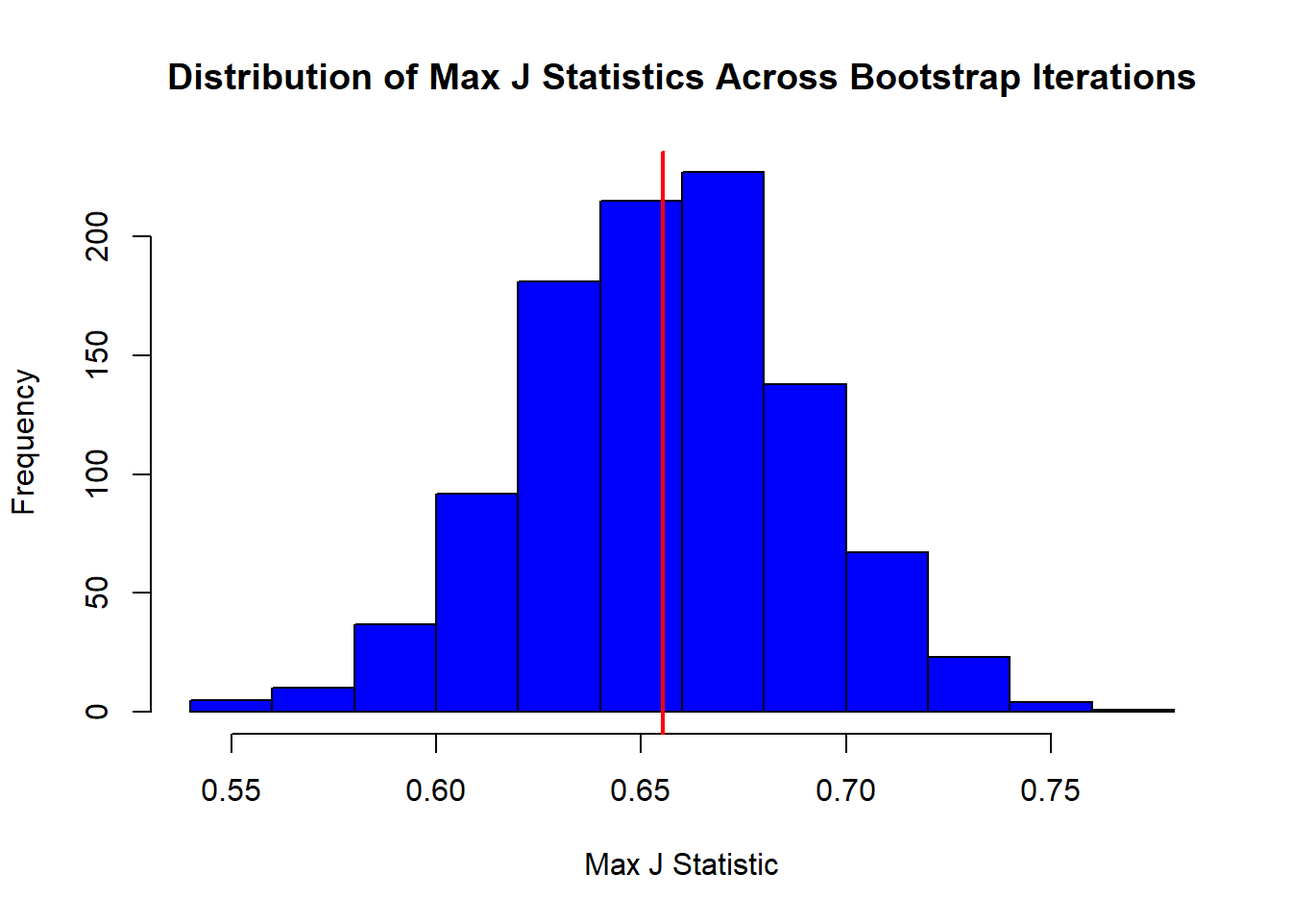
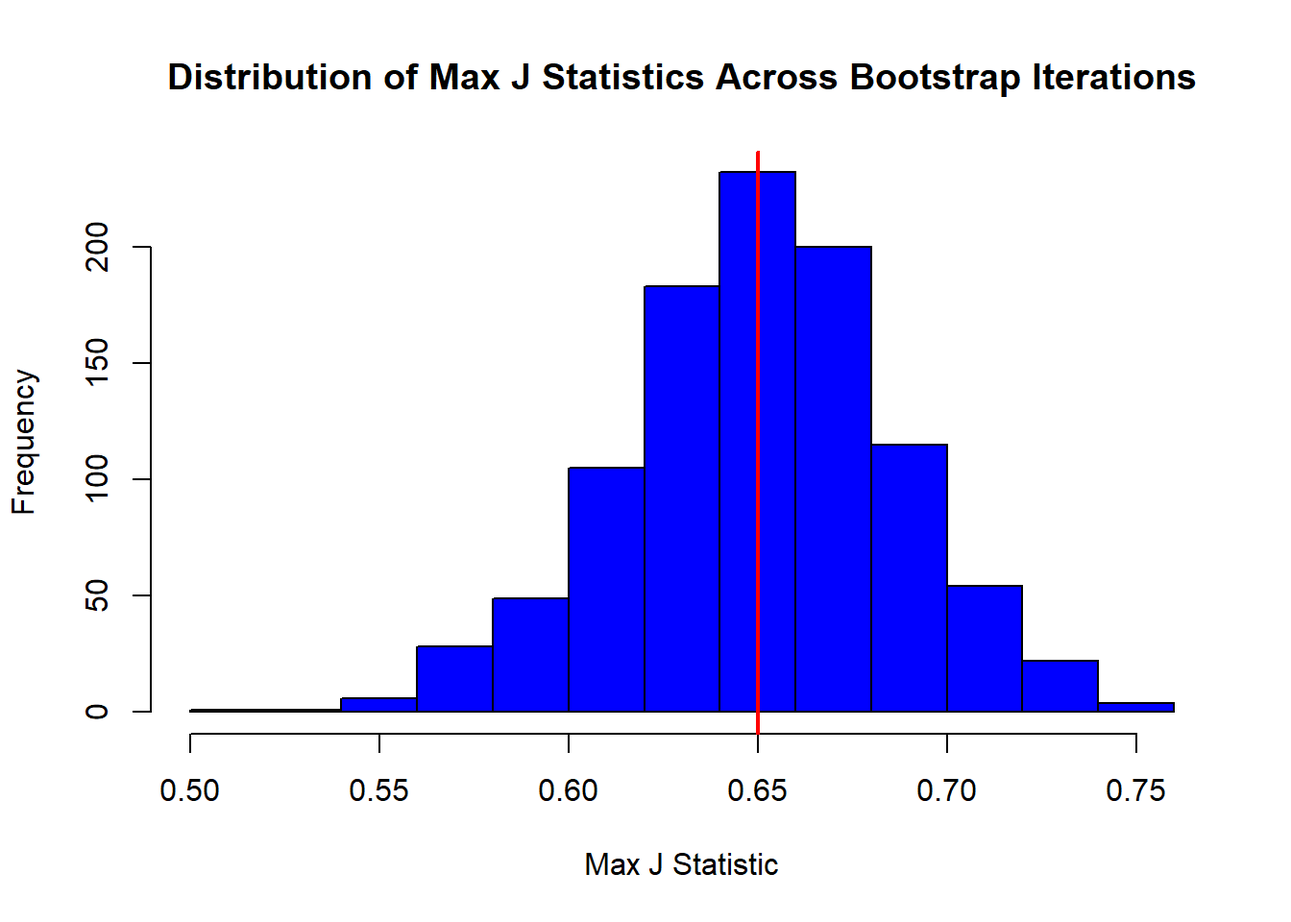
xgb2

diff --git a/docs/XGB_2.html b/docs/XGB_2.html
@@ -655,22 +655,22 @@ method</p>
 <div id="validating" class="section level3">
 <h3>Validating</h3>
 <div class="sourceCode" id="cb9"><pre class="sourceCode r"><code class="sourceCode r"><span id="cb9-1"><a href="#cb9-1" tabindex="-1"></a>grid <span class="ot">&lt;-</span> <span class="fu">expand.grid</span>(</span>
-<span id="cb9-2"><a href="#cb9-2" tabindex="-1"></a>  <span class="at">eta =</span> <span class="fu">seq</span>(<span class="fl">0.07</span>, <span class="fl">0.10</span>, <span class="at">by =</span> <span class="fl">0.01</span>), </span>
-<span id="cb9-3"><a href="#cb9-3" tabindex="-1"></a>  <span class="at">max_depth =</span> <span class="fu">seq</span>(<span class="dv">1</span>, <span class="dv">10</span>, <span class="at">by =</span> <span class="dv">9</span>),  </span>
-<span id="cb9-4"><a href="#cb9-4" tabindex="-1"></a>  <span class="at">min_child_weight =</span> <span class="fu">seq</span>(<span class="dv">1</span>, <span class="dv">19</span>, <span class="at">by =</span> <span class="dv">4</span>),  </span>
-<span id="cb9-5"><a href="#cb9-5" tabindex="-1"></a>  <span class="at">subsample =</span> <span class="fu">seq</span>(<span class="fl">0.6</span>, <span class="fl">0.8</span>, <span class="at">by =</span> <span class="fl">0.1</span>), </span>
-<span id="cb9-6"><a href="#cb9-6" tabindex="-1"></a>  <span class="at">colsample_bytree =</span> <span class="fu">seq</span>(<span class="fl">0.8</span>, <span class="dv">1</span>, <span class="at">by =</span> <span class="fl">0.1</span>), </span>
-<span id="cb9-7"><a href="#cb9-7" tabindex="-1"></a>  <span class="at">lambda =</span> <span class="fu">seq</span>(<span class="dv">0</span>, <span class="dv">12</span>, <span class="at">by =</span> <span class="dv">4</span>), </span>
-<span id="cb9-8"><a href="#cb9-8" tabindex="-1"></a>  <span class="at">alpha =</span> <span class="fu">seq</span>(<span class="dv">0</span>, <span class="dv">4</span>, <span class="at">by =</span> <span class="dv">2</span>),  </span>
-<span id="cb9-9"><a href="#cb9-9" tabindex="-1"></a>  <span class="at">gamma =</span> <span class="fu">seq</span>(<span class="dv">0</span>, <span class="dv">2</span>, <span class="at">by =</span> <span class="dv">2</span>),  </span>
-<span id="cb9-10"><a href="#cb9-10" tabindex="-1"></a>  <span class="at">nrounds =</span> <span class="fu">c</span>(<span class="dv">150</span>, <span class="dv">200</span>, <span class="dv">300</span>)  </span>
+<span id="cb9-2"><a href="#cb9-2" tabindex="-1"></a>  <span class="at">eta =</span> <span class="fu">seq</span>(<span class="fl">0.1</span>, <span class="fl">0.10</span>, <span class="at">by =</span> <span class="fl">0.0</span>), </span>
+<span id="cb9-3"><a href="#cb9-3" tabindex="-1"></a>  <span class="at">max_depth =</span> <span class="fu">seq</span>(<span class="dv">10</span>, <span class="dv">16</span>, <span class="at">by =</span> <span class="dv">3</span>),  </span>
+<span id="cb9-4"><a href="#cb9-4" tabindex="-1"></a>  <span class="at">min_child_weight =</span> <span class="fu">seq</span>(<span class="dv">1</span>, <span class="dv">1</span>, <span class="at">by =</span> <span class="dv">0</span>),  </span>
+<span id="cb9-5"><a href="#cb9-5" tabindex="-1"></a>  <span class="at">subsample =</span> <span class="fu">seq</span>(<span class="fl">0.7</span>, <span class="fl">0.9</span>, <span class="at">by =</span> <span class="fl">0.1</span>), </span>
+<span id="cb9-6"><a href="#cb9-6" tabindex="-1"></a>  <span class="at">colsample_bytree =</span> <span class="fu">seq</span>(<span class="dv">1</span>, <span class="dv">1</span>, <span class="at">by =</span> <span class="dv">0</span>), </span>
+<span id="cb9-7"><a href="#cb9-7" tabindex="-1"></a>  <span class="at">lambda =</span> <span class="fu">seq</span>(<span class="dv">0</span>, <span class="dv">4</span>, <span class="at">by =</span> <span class="dv">1</span>), </span>
+<span id="cb9-8"><a href="#cb9-8" tabindex="-1"></a>  <span class="at">alpha =</span> <span class="fu">seq</span>(<span class="dv">0</span>, <span class="dv">4</span>, <span class="at">by =</span> <span class="dv">1</span>),  </span>
+<span id="cb9-9"><a href="#cb9-9" tabindex="-1"></a>  <span class="at">gamma =</span> <span class="fu">seq</span>(<span class="dv">0</span>, <span class="dv">2</span>, <span class="at">by =</span> <span class="dv">1</span>),  </span>
+<span id="cb9-10"><a href="#cb9-10" tabindex="-1"></a>  <span class="at">nrounds =</span> <span class="fu">c</span>(<span class="dv">100</span>, <span class="dv">150</span>, <span class="dv">200</span>)  </span>
 <span id="cb9-11"><a href="#cb9-11" tabindex="-1"></a>)</span></code></pre></div>
 <div class="sourceCode" id="cb10"><pre class="sourceCode r"><code class="sourceCode r"><span id="cb10-1"><a href="#cb10-1" tabindex="-1"></a>conf_lev <span class="ot">&lt;-</span> .<span class="dv">95</span></span>
 <span id="cb10-2"><a href="#cb10-2" tabindex="-1"></a>num_max <span class="ot">&lt;-</span> <span class="dv">5</span> <span class="co"># Define number around the maximum</span></span>
 <span id="cb10-3"><a href="#cb10-3" tabindex="-1"></a>n <span class="ot">&lt;-</span> <span class="fu">log</span>(<span class="dv">1</span><span class="sc">-</span>conf_lev)<span class="sc">/</span><span class="fu">log</span>(<span class="dv">1</span><span class="sc">-</span>num_max<span class="sc">/</span><span class="fu">nrow</span>(grid))</span>
 <span id="cb10-4"><a href="#cb10-4" tabindex="-1"></a>ind <span class="ot">&lt;-</span> <span class="fu">sample</span>(<span class="fu">nrow</span>(grid), <span class="fu">nrow</span>(grid)<span class="sc">*</span>(n<span class="sc">/</span><span class="fu">nrow</span>(grid)), <span class="at">replace =</span> <span class="cn">FALSE</span>)</span>
 <span id="cb10-5"><a href="#cb10-5" tabindex="-1"></a>rgrid <span class="ot">&lt;-</span> grid[ind, ]</span></code></pre></div>
-<div class="sourceCode" id="cb11"><pre class="sourceCode r"><code class="sourceCode r"><span id="cb11-1"><a href="#cb11-1" tabindex="-1"></a>v <span class="ot">&lt;-</span> <span class="dv">200</span></span>
+<div class="sourceCode" id="cb11"><pre class="sourceCode r"><code class="sourceCode r"><span id="cb11-1"><a href="#cb11-1" tabindex="-1"></a>v <span class="ot">&lt;-</span> <span class="dv">400</span></span>
 <span id="cb11-2"><a href="#cb11-2" tabindex="-1"></a></span>
 <span id="cb11-3"><a href="#cb11-3" tabindex="-1"></a><span class="co"># Call the modified run_xgb function</span></span>
 <span id="cb11-4"><a href="#cb11-4" tabindex="-1"></a>vr <span class="ot">&lt;-</span> <span class="fu">run_xgb</span>(xs, y, rgrid, v)</span>
@@ -679,20 +679,20 @@ method</p>
 <pre><code>## # A tibble: 6 × 10
 ##     eta max_depth min_child_weight subsample colsample_bytree lambda alpha gamma
 ##   &lt;dbl&gt;     &lt;dbl&gt;            &lt;dbl&gt;     &lt;dbl&gt;            &lt;dbl&gt;  &lt;dbl&gt; &lt;dbl&gt; &lt;dbl&gt;
-## 1  0.07        10                5       0.6              1        8     2     0
-## 2  0.1         10               13       0.7              1        4     4     2
-## 3  0.08        10                5       0.7              1       12     2     0
-## 4  0.08         1                5       0.7              0.8      8     2     2
-## 5  0.08        10               17       0.7              1        0     2     0
-## 6  0.09        10               13       0.8              0.9      4     0     0
+## 1   0.1        16                1       0.7                1      1     0     2
+## 2   0.1        13                1       0.8                1      4     3     1
+## 3   0.1        16                1       0.7                1      0     1     0
+## 4   0.1        10                1       0.8                1      4     4     2
+## 5   0.1        16                1       0.9                1      2     4     1
+## 6   0.1        13                1       0.9                1      3     3     1
 ##   nrounds AUC_Mean
 ##     &lt;dbl&gt;    &lt;dbl&gt;
-## 1     200    0.877
-## 2     200    0.862
-## 3     150    0.877
-## 4     150    0.861
-## 5     300    0.866
-## 6     200    0.875</code></pre>
+## 1     200    0.882
+## 2     150    0.881
+## 3     150    0.881
+## 4     100    0.870
+## 5     100    0.878
+## 6     150    0.880</code></pre>
 </div>
 <div id="testing" class="section level3">
 <h3>Testing</h3>
@@ -708,20 +708,20 @@ method</p>
 <pre><code>## # A tibble: 6 × 11
 ##     eta max_depth min_child_weight subsample colsample_bytree lambda alpha gamma
 ##   &lt;dbl&gt;     &lt;dbl&gt;            &lt;dbl&gt;     &lt;dbl&gt;            &lt;dbl&gt;  &lt;dbl&gt; &lt;dbl&gt; &lt;dbl&gt;
-## 1  0.09        10                1       0.7              1       12     0     0
-## 2  0.07        10                1       0.8              1        4     2     0
-## 3  0.08        10                1       0.8              0.8     12     0     0
-## 4  0.07        10                1       0.8              1       12     0     0
-## 5  0.09        10                1       0.8              0.9      4     2     0
-## 6  0.07        10                1       0.7              0.8      8     2     0
+## 1   0.1        16                1       0.7                1      3     2     0
+## 2   0.1        16                1       0.8                1      3     1     0
+## 3   0.1        13                1       0.8                1      3     1     0
+## 4   0.1        10                1       0.8                1      4     0     1
+## 5   0.1        13                1       0.7                1      1     2     1
+## 6   0.1        16                1       0.7                1      3     2     0
 ##   nrounds AUC_Mean mean_auc
 ##     &lt;dbl&gt;    &lt;dbl&gt;    &lt;dbl&gt;
-## 1     150    0.888    0.884
-## 2     300    0.887    0.883
-## 3     200    0.886    0.884
-## 4     150    0.886    0.884
-## 5     150    0.886    0.884
-## 6     200    0.886    0.883</code></pre>
+## 1     200    0.886    0.884
+## 2     150    0.885    0.883
+## 3     150    0.885    0.883
+## 4     200    0.885    0.883
+## 5     200    0.885    0.883
+## 6     150    0.885    0.884</code></pre>
 </div>
 </div>
 </div>
@@ -735,18 +735,18 @@ method</p>
 <pre><code>## # A tibble: 1 × 11
 ##     eta max_depth min_child_weight subsample colsample_bytree lambda alpha gamma
 ##   &lt;dbl&gt;     &lt;dbl&gt;            &lt;dbl&gt;     &lt;dbl&gt;            &lt;dbl&gt;  &lt;dbl&gt; &lt;dbl&gt; &lt;dbl&gt;
-## 1  0.09        10                1       0.7              0.9     12     0     0
+## 1   0.1        10                1       0.7                1      4     1     0
 ##   nrounds AUC_Mean mean_auc
 ##     &lt;dbl&gt;    &lt;dbl&gt;    &lt;dbl&gt;
-## 1     150    0.884    0.886</code></pre>
-<div class="sourceCode" id="cb18"><pre class="sourceCode r"><code class="sourceCode r"><span id="cb18-1"><a href="#cb18-1" tabindex="-1"></a>r <span class="ot">&lt;-</span> <span class="dv">1000</span></span>
+## 1     150    0.883    0.884</code></pre>
+<div class="sourceCode" id="cb18"><pre class="sourceCode r"><code class="sourceCode r"><span id="cb18-1"><a href="#cb18-1" tabindex="-1"></a>r <span class="ot">&lt;-</span> <span class="dv">1500</span></span>
 <span id="cb18-2"><a href="#cb18-2" tabindex="-1"></a>auc <span class="ot">&lt;-</span> <span class="fu">test_auc</span>(xs, y, best_hp, r)</span>
 <span id="cb18-3"><a href="#cb18-3" tabindex="-1"></a></span>
 <span id="cb18-4"><a href="#cb18-4" tabindex="-1"></a>mauc <span class="ot">&lt;-</span> <span class="fu">mean</span>(auc)</span>
 <span id="cb18-5"><a href="#cb18-5" tabindex="-1"></a>mauc</span></code></pre></div>
-<pre><code>## [1] 0.8836899</code></pre>
+<pre><code>## [1] 0.8823718</code></pre>
 <div class="sourceCode" id="cb20"><pre class="sourceCode r"><code class="sourceCode r"><span id="cb20-1"><a href="#cb20-1" tabindex="-1"></a><span class="fu">sd</span>(auc)</span></code></pre></div>
-<pre><code>## [1] 0.01684275</code></pre>
+<pre><code>## [1] 0.01657016</code></pre>
 <p>As we can see our results are much better even with a small grid</p>
 <div class="sourceCode" id="cb22"><pre class="sourceCode r"><code class="sourceCode r"><span id="cb22-1"><a href="#cb22-1" tabindex="-1"></a><span class="fu">plot</span>(auc, <span class="at">col=</span><span class="st">&quot;red&quot;</span>)</span>
 <span id="cb22-2"><a href="#cb22-2" tabindex="-1"></a><span class="fu">abline</span>(<span class="at">a =</span> <span class="fu">mean</span>(auc), <span class="at">b =</span> <span class="dv">0</span>, <span class="at">col =</span> <span class="st">&quot;blue&quot;</span>, <span class="at">lwd =</span> <span class="dv">2</span>)</span>
@@ -813,7 +813,7 @@ metric if you want</p>
 <span id="cb23-53"><a href="#cb23-53" tabindex="-1"></a><span class="co"># Calculate and print the average of the best thresholds</span></span>
 <span id="cb23-54"><a href="#cb23-54" tabindex="-1"></a>avg_best_threshold <span class="ot">&lt;-</span> <span class="fu">mean</span>(best_thresholds)</span>
 <span id="cb23-55"><a href="#cb23-55" tabindex="-1"></a><span class="fu">cat</span>(<span class="st">&quot;Average Best Threshold:&quot;</span>, avg_best_threshold, <span class="st">&quot;</span><span class="sc">\n</span><span class="st">&quot;</span>)</span></code></pre></div>
-<pre><code>## Average Best Threshold: 0.402199</code></pre>
+<pre><code>## Average Best Threshold: 0.4043697</code></pre>
 <div class="sourceCode" id="cb25"><pre class="sourceCode r"><code class="sourceCode r"><span id="cb25-1"><a href="#cb25-1" tabindex="-1"></a><span class="co"># Plot the distribution of max J statistics for each iteration</span></span>
 <span id="cb25-2"><a href="#cb25-2" tabindex="-1"></a><span class="fu">hist</span>(j_stats, <span class="at">col =</span> <span class="st">&quot;blue&quot;</span>, <span class="at">xlab =</span> <span class="st">&quot;Max J Statistic&quot;</span>, <span class="at">ylab =</span> <span class="st">&quot;Frequency&quot;</span>,</span>
 <span id="cb25-3"><a href="#cb25-3" tabindex="-1"></a>     <span class="at">main =</span> <span class="st">&quot;Distribution of Max J Statistics Across Bootstrap Iterations&quot;</span>)</span>
@@ -822,95 +822,67 @@ metric if you want</p>
 </div>
 <div id="confusion-table-and-roc" class="section level1">
 <h1>Confusion table and ROC</h1>
-<p>For now this is one run and unreliable but we can loop it and do
-confidence intervals swap this confusion table around</p>
-<div class="sourceCode" id="cb26"><pre class="sourceCode r"><code class="sourceCode r"><span id="cb26-1"><a href="#cb26-1" tabindex="-1"></a>    ind <span class="ot">&lt;-</span> <span class="fu">sample</span>(<span class="fu">nrow</span>(xs), <span class="at">size =</span> <span class="fu">nrow</span>(xs), <span class="at">replace =</span> <span class="cn">TRUE</span>)</span>
-<span id="cb26-2"><a href="#cb26-2" tabindex="-1"></a>    train_xs <span class="ot">&lt;-</span> xs[ind, ]</span>
-<span id="cb26-3"><a href="#cb26-3" tabindex="-1"></a>    test_xs <span class="ot">&lt;-</span> xs[<span class="sc">-</span>ind, ]</span>
-<span id="cb26-4"><a href="#cb26-4" tabindex="-1"></a>    train_y <span class="ot">&lt;-</span> y[ind]</span>
-<span id="cb26-5"><a href="#cb26-5" tabindex="-1"></a>    test_y <span class="ot">&lt;-</span> y[<span class="sc">-</span>ind]</span>
-<span id="cb26-6"><a href="#cb26-6" tabindex="-1"></a>    dtrain <span class="ot">&lt;-</span> <span class="fu">xgb.DMatrix</span>(<span class="at">data =</span> train_xs, <span class="at">label =</span> train_y)</span>
-<span id="cb26-7"><a href="#cb26-7" tabindex="-1"></a>    dtest <span class="ot">&lt;-</span> <span class="fu">xgb.DMatrix</span>(<span class="at">data =</span> test_xs, <span class="at">label =</span> test_y)</span>
-<span id="cb26-8"><a href="#cb26-8" tabindex="-1"></a></span>
-<span id="cb26-9"><a href="#cb26-9" tabindex="-1"></a>xgbmdl_final <span class="ot">&lt;-</span> <span class="fu">xgb.train</span>(<span class="at">params =</span> params, <span class="at">data =</span> dtrain, <span class="at">nrounds =</span> best_hp<span class="sc">$</span>nrounds, <span class="at">verbose =</span> <span class="dv">0</span>)</span>
-<span id="cb26-10"><a href="#cb26-10" tabindex="-1"></a></span>
-<span id="cb26-11"><a href="#cb26-11" tabindex="-1"></a>final_phat <span class="ot">&lt;-</span> <span class="fu">predict</span>(xgbmdl_final, dtest)</span>
-<span id="cb26-12"><a href="#cb26-12" tabindex="-1"></a></span>
-<span id="cb26-13"><a href="#cb26-13" tabindex="-1"></a>final_predicted_classes <span class="ot">&lt;-</span> <span class="fu">ifelse</span>(final_phat <span class="sc">&gt;</span> avg_best_threshold, <span class="dv">1</span>, <span class="dv">0</span>)</span>
-<span id="cb26-14"><a href="#cb26-14" tabindex="-1"></a></span>
-<span id="cb26-15"><a href="#cb26-15" tabindex="-1"></a>final_test_y_binary <span class="ot">&lt;-</span> <span class="fu">ifelse</span>(test_y <span class="sc">&gt;</span> avg_best_threshold, <span class="dv">1</span>, <span class="dv">0</span>) <span class="co"># Adjusting to binary if not already</span></span>
-<span id="cb26-16"><a href="#cb26-16" tabindex="-1"></a>conf_matrix <span class="ot">&lt;-</span> <span class="fu">table</span>(<span class="at">Predicted =</span> final_predicted_classes, <span class="at">Actual =</span> final_test_y_binary)</span>
-<span id="cb26-17"><a href="#cb26-17" tabindex="-1"></a><span class="fu">print</span>(conf_matrix)</span></code></pre></div>
-<pre><code>##          Actual
-## Predicted   0   1
-##         0 174  21
-##         1  34  99</code></pre>
-<div class="sourceCode" id="cb28"><pre class="sourceCode r"><code class="sourceCode r"><span id="cb28-1"><a href="#cb28-1" tabindex="-1"></a>final_pred_rocr <span class="ot">&lt;-</span> <span class="fu">prediction</span>(final_phat, test_y)</span>
-<span id="cb28-2"><a href="#cb28-2" tabindex="-1"></a>final_perf_rocr <span class="ot">&lt;-</span> <span class="fu">performance</span>(final_pred_rocr, <span class="st">&quot;tpr&quot;</span>, <span class="st">&quot;fpr&quot;</span>)</span>
-<span id="cb28-3"><a href="#cb28-3" tabindex="-1"></a><span class="fu">plot</span>(final_perf_rocr, <span class="at">colorize =</span> <span class="cn">TRUE</span>, <span class="at">main =</span> <span class="st">&quot;ROC Curve&quot;</span>)</span>
-<span id="cb28-4"><a href="#cb28-4" tabindex="-1"></a><span class="fu">abline</span>(<span class="at">a =</span> <span class="dv">0</span>, <span class="at">b =</span> <span class="dv">1</span>, <span class="at">lty =</span> <span class="dv">2</span>) <span class="co"># Reference line</span></span></code></pre></div>
-<p><img src="XGB_2_files/figure-html/unnamed-chunk-15-1.png" width="672" />
-Avg confusion table. we should do a CI later</p>
-<div class="sourceCode" id="cb29"><pre class="sourceCode r"><code class="sourceCode r"><span id="cb29-1"><a href="#cb29-1" tabindex="-1"></a><span class="co"># Initialize storage for aggregated confusion matrix totals</span></span>
-<span id="cb29-2"><a href="#cb29-2" tabindex="-1"></a>conf_mat_totals <span class="ot">&lt;-</span> <span class="fu">matrix</span>(<span class="dv">0</span>, <span class="at">nrow =</span> <span class="dv">2</span>, <span class="at">ncol =</span> <span class="dv">2</span>)</span>
-<span id="cb29-3"><a href="#cb29-3" tabindex="-1"></a><span class="fu">colnames</span>(conf_mat_totals) <span class="ot">&lt;-</span> <span class="fu">c</span>(<span class="st">&quot;Predicted_1&quot;</span>, <span class="st">&quot;Predicted_0&quot;</span>)</span>
-<span id="cb29-4"><a href="#cb29-4" tabindex="-1"></a><span class="fu">rownames</span>(conf_mat_totals) <span class="ot">&lt;-</span> <span class="fu">c</span>(<span class="st">&quot;Actual_1&quot;</span>, <span class="st">&quot;Actual_0&quot;</span>)</span>
-<span id="cb29-5"><a href="#cb29-5" tabindex="-1"></a></span>
-<span id="cb29-6"><a href="#cb29-6" tabindex="-1"></a><span class="co"># Initialize lists to store TPR and FPR values for each bootstrap iteration</span></span>
-<span id="cb29-7"><a href="#cb29-7" tabindex="-1"></a>all_tpr <span class="ot">&lt;-</span> <span class="fu">list</span>()</span>
-<span id="cb29-8"><a href="#cb29-8" tabindex="-1"></a>all_fpr <span class="ot">&lt;-</span> <span class="fu">list</span>()</span>
-<span id="cb29-9"><a href="#cb29-9" tabindex="-1"></a></span>
-<span id="cb29-10"><a href="#cb29-10" tabindex="-1"></a><span class="cf">for</span>(i <span class="cf">in</span> <span class="dv">1</span><span class="sc">:</span><span class="dv">1000</span>) {</span>
-<span id="cb29-11"><a href="#cb29-11" tabindex="-1"></a>  ind <span class="ot">&lt;-</span> <span class="fu">sample</span>(<span class="fu">nrow</span>(xs), <span class="at">size =</span> <span class="fu">nrow</span>(xs), <span class="at">replace =</span> <span class="cn">TRUE</span>)</span>
-<span id="cb29-12"><a href="#cb29-12" tabindex="-1"></a>  train_xs <span class="ot">&lt;-</span> xs[ind, ]</span>
-<span id="cb29-13"><a href="#cb29-13" tabindex="-1"></a>  test_xs <span class="ot">&lt;-</span> xs[<span class="sc">-</span>ind, ]</span>
-<span id="cb29-14"><a href="#cb29-14" tabindex="-1"></a>  train_y <span class="ot">&lt;-</span> y[ind]</span>
-<span id="cb29-15"><a href="#cb29-15" tabindex="-1"></a>  test_y <span class="ot">&lt;-</span> y[<span class="sc">-</span>ind]</span>
-<span id="cb29-16"><a href="#cb29-16" tabindex="-1"></a>  dtrain <span class="ot">&lt;-</span> <span class="fu">xgb.DMatrix</span>(<span class="at">data =</span> train_xs, <span class="at">label =</span> train_y)</span>
-<span id="cb29-17"><a href="#cb29-17" tabindex="-1"></a>  dtest <span class="ot">&lt;-</span> <span class="fu">xgb.DMatrix</span>(<span class="at">data =</span> test_xs, <span class="at">label =</span> test_y)</span>
-<span id="cb29-18"><a href="#cb29-18" tabindex="-1"></a></span>
-<span id="cb29-19"><a href="#cb29-19" tabindex="-1"></a>  xgbmdl_final <span class="ot">&lt;-</span> <span class="fu">xgb.train</span>(<span class="at">params =</span> params, <span class="at">data =</span> dtrain, <span class="at">nrounds =</span> best_hp<span class="sc">$</span>nrounds, <span class="at">verbose =</span> <span class="dv">0</span>)</span>
-<span id="cb29-20"><a href="#cb29-20" tabindex="-1"></a></span>
-<span id="cb29-21"><a href="#cb29-21" tabindex="-1"></a>  final_phat <span class="ot">&lt;-</span> <span class="fu">predict</span>(xgbmdl_final, dtest)</span>
-<span id="cb29-22"><a href="#cb29-22" tabindex="-1"></a>  final_predicted_classes <span class="ot">&lt;-</span> <span class="fu">ifelse</span>(final_phat <span class="sc">&gt;</span> avg_best_threshold, <span class="dv">1</span>, <span class="dv">0</span>)</span>
-<span id="cb29-23"><a href="#cb29-23" tabindex="-1"></a>  final_test_y_binary <span class="ot">&lt;-</span> <span class="fu">ifelse</span>(test_y <span class="sc">&gt;</span> avg_best_threshold, <span class="dv">1</span>, <span class="dv">0</span>)</span>
-<span id="cb29-24"><a href="#cb29-24" tabindex="-1"></a></span>
-<span id="cb29-25"><a href="#cb29-25" tabindex="-1"></a>  conf_matrix <span class="ot">&lt;-</span> <span class="fu">table</span>(<span class="at">Predicted =</span> <span class="fu">factor</span>(final_predicted_classes, <span class="at">levels =</span> <span class="fu">c</span>(<span class="dv">1</span>, <span class="dv">0</span>)), <span class="at">Actual =</span> <span class="fu">factor</span>(final_test_y_binary, <span class="at">levels =</span> <span class="fu">c</span>(<span class="dv">1</span>, <span class="dv">0</span>)))</span>
-<span id="cb29-26"><a href="#cb29-26" tabindex="-1"></a>  conf_mat_totals <span class="ot">&lt;-</span> conf_mat_totals <span class="sc">+</span> <span class="fu">as.matrix</span>(conf_matrix)</span>
-<span id="cb29-27"><a href="#cb29-27" tabindex="-1"></a></span>
-<span id="cb29-28"><a href="#cb29-28" tabindex="-1"></a>  final_pred_rocr <span class="ot">&lt;-</span> <span class="fu">prediction</span>(final_phat, test_y)</span>
-<span id="cb29-29"><a href="#cb29-29" tabindex="-1"></a>  final_perf_rocr <span class="ot">&lt;-</span> <span class="fu">performance</span>(final_pred_rocr, <span class="st">&quot;tpr&quot;</span>, <span class="st">&quot;fpr&quot;</span>)</span>
-<span id="cb29-30"><a href="#cb29-30" tabindex="-1"></a></span>
-<span id="cb29-31"><a href="#cb29-31" tabindex="-1"></a>  <span class="co"># Store TPR and FPR values for this iteration</span></span>
-<span id="cb29-32"><a href="#cb29-32" tabindex="-1"></a>  all_tpr[[i]] <span class="ot">&lt;-</span> final_perf_rocr<span class="sc">@</span>y.values[[<span class="dv">1</span>]]</span>
-<span id="cb29-33"><a href="#cb29-33" tabindex="-1"></a>  all_fpr[[i]] <span class="ot">&lt;-</span> final_perf_rocr<span class="sc">@</span>x.values[[<span class="dv">1</span>]]</span>
-<span id="cb29-34"><a href="#cb29-34" tabindex="-1"></a>}</span>
-<span id="cb29-35"><a href="#cb29-35" tabindex="-1"></a></span>
-<span id="cb29-36"><a href="#cb29-36" tabindex="-1"></a><span class="co"># Calculate the average confusion matrix</span></span>
-<span id="cb29-37"><a href="#cb29-37" tabindex="-1"></a>avg_conf_matrix <span class="ot">&lt;-</span> conf_mat_totals <span class="sc">/</span> <span class="dv">1000</span></span>
-<span id="cb29-38"><a href="#cb29-38" tabindex="-1"></a><span class="fu">print</span>(avg_conf_matrix)</span></code></pre></div>
+<p>Avg confusion table. we should do a CI later</p>
+<div class="sourceCode" id="cb26"><pre class="sourceCode r"><code class="sourceCode r"><span id="cb26-1"><a href="#cb26-1" tabindex="-1"></a><span class="co"># Initialize storage for aggregated confusion matrix totals</span></span>
+<span id="cb26-2"><a href="#cb26-2" tabindex="-1"></a>conf_mat_totals <span class="ot">&lt;-</span> <span class="fu">matrix</span>(<span class="dv">0</span>, <span class="at">nrow =</span> <span class="dv">2</span>, <span class="at">ncol =</span> <span class="dv">2</span>)</span>
+<span id="cb26-3"><a href="#cb26-3" tabindex="-1"></a><span class="fu">colnames</span>(conf_mat_totals) <span class="ot">&lt;-</span> <span class="fu">c</span>(<span class="st">&quot;Predicted_1&quot;</span>, <span class="st">&quot;Predicted_0&quot;</span>)</span>
+<span id="cb26-4"><a href="#cb26-4" tabindex="-1"></a><span class="fu">rownames</span>(conf_mat_totals) <span class="ot">&lt;-</span> <span class="fu">c</span>(<span class="st">&quot;Actual_1&quot;</span>, <span class="st">&quot;Actual_0&quot;</span>)</span>
+<span id="cb26-5"><a href="#cb26-5" tabindex="-1"></a></span>
+<span id="cb26-6"><a href="#cb26-6" tabindex="-1"></a><span class="co"># Initialize lists to store TPR and FPR values for each bootstrap iteration</span></span>
+<span id="cb26-7"><a href="#cb26-7" tabindex="-1"></a>all_tpr <span class="ot">&lt;-</span> <span class="fu">list</span>()</span>
+<span id="cb26-8"><a href="#cb26-8" tabindex="-1"></a>all_fpr <span class="ot">&lt;-</span> <span class="fu">list</span>()</span>
+<span id="cb26-9"><a href="#cb26-9" tabindex="-1"></a></span>
+<span id="cb26-10"><a href="#cb26-10" tabindex="-1"></a><span class="cf">for</span>(i <span class="cf">in</span> <span class="dv">1</span><span class="sc">:</span><span class="dv">1000</span>) {</span>
+<span id="cb26-11"><a href="#cb26-11" tabindex="-1"></a>  ind <span class="ot">&lt;-</span> <span class="fu">sample</span>(<span class="fu">nrow</span>(xs), <span class="at">size =</span> <span class="fu">nrow</span>(xs), <span class="at">replace =</span> <span class="cn">TRUE</span>)</span>
+<span id="cb26-12"><a href="#cb26-12" tabindex="-1"></a>  train_xs <span class="ot">&lt;-</span> xs[ind, ]</span>
+<span id="cb26-13"><a href="#cb26-13" tabindex="-1"></a>  test_xs <span class="ot">&lt;-</span> xs[<span class="sc">-</span>ind, ]</span>
+<span id="cb26-14"><a href="#cb26-14" tabindex="-1"></a>  train_y <span class="ot">&lt;-</span> y[ind]</span>
+<span id="cb26-15"><a href="#cb26-15" tabindex="-1"></a>  test_y <span class="ot">&lt;-</span> y[<span class="sc">-</span>ind]</span>
+<span id="cb26-16"><a href="#cb26-16" tabindex="-1"></a>  dtrain <span class="ot">&lt;-</span> <span class="fu">xgb.DMatrix</span>(<span class="at">data =</span> train_xs, <span class="at">label =</span> train_y)</span>
+<span id="cb26-17"><a href="#cb26-17" tabindex="-1"></a>  dtest <span class="ot">&lt;-</span> <span class="fu">xgb.DMatrix</span>(<span class="at">data =</span> test_xs, <span class="at">label =</span> test_y)</span>
+<span id="cb26-18"><a href="#cb26-18" tabindex="-1"></a></span>
+<span id="cb26-19"><a href="#cb26-19" tabindex="-1"></a>  xgbmdl_final <span class="ot">&lt;-</span> <span class="fu">xgb.train</span>(<span class="at">params =</span> params, <span class="at">data =</span> dtrain, <span class="at">nrounds =</span> best_hp<span class="sc">$</span>nrounds, <span class="at">verbose =</span> <span class="dv">0</span>)</span>
+<span id="cb26-20"><a href="#cb26-20" tabindex="-1"></a></span>
+<span id="cb26-21"><a href="#cb26-21" tabindex="-1"></a>  final_phat <span class="ot">&lt;-</span> <span class="fu">predict</span>(xgbmdl_final, dtest)</span>
+<span id="cb26-22"><a href="#cb26-22" tabindex="-1"></a>  final_predicted_classes <span class="ot">&lt;-</span> <span class="fu">ifelse</span>(final_phat <span class="sc">&gt;</span> avg_best_threshold, <span class="dv">1</span>, <span class="dv">0</span>)</span>
+<span id="cb26-23"><a href="#cb26-23" tabindex="-1"></a>  final_test_y_binary <span class="ot">&lt;-</span> <span class="fu">ifelse</span>(test_y <span class="sc">&gt;</span> avg_best_threshold, <span class="dv">1</span>, <span class="dv">0</span>)</span>
+<span id="cb26-24"><a href="#cb26-24" tabindex="-1"></a></span>
+<span id="cb26-25"><a href="#cb26-25" tabindex="-1"></a>  conf_matrix <span class="ot">&lt;-</span> <span class="fu">table</span>(<span class="at">Predicted =</span> <span class="fu">factor</span>(final_predicted_classes, <span class="at">levels =</span> <span class="fu">c</span>(<span class="dv">1</span>, <span class="dv">0</span>)), <span class="at">Actual =</span> <span class="fu">factor</span>(final_test_y_binary, <span class="at">levels =</span> <span class="fu">c</span>(<span class="dv">1</span>, <span class="dv">0</span>)))</span>
+<span id="cb26-26"><a href="#cb26-26" tabindex="-1"></a>  conf_mat_totals <span class="ot">&lt;-</span> conf_mat_totals <span class="sc">+</span> <span class="fu">as.matrix</span>(conf_matrix)</span>
+<span id="cb26-27"><a href="#cb26-27" tabindex="-1"></a></span>
+<span id="cb26-28"><a href="#cb26-28" tabindex="-1"></a>  final_pred_rocr <span class="ot">&lt;-</span> <span class="fu">prediction</span>(final_phat, test_y)</span>
+<span id="cb26-29"><a href="#cb26-29" tabindex="-1"></a>  final_perf_rocr <span class="ot">&lt;-</span> <span class="fu">performance</span>(final_pred_rocr, <span class="st">&quot;tpr&quot;</span>, <span class="st">&quot;fpr&quot;</span>)</span>
+<span id="cb26-30"><a href="#cb26-30" tabindex="-1"></a></span>
+<span id="cb26-31"><a href="#cb26-31" tabindex="-1"></a>  <span class="co"># Store TPR and FPR values for this iteration</span></span>
+<span id="cb26-32"><a href="#cb26-32" tabindex="-1"></a>  all_tpr[[i]] <span class="ot">&lt;-</span> final_perf_rocr<span class="sc">@</span>y.values[[<span class="dv">1</span>]]</span>
+<span id="cb26-33"><a href="#cb26-33" tabindex="-1"></a>  all_fpr[[i]] <span class="ot">&lt;-</span> final_perf_rocr<span class="sc">@</span>x.values[[<span class="dv">1</span>]]</span>
+<span id="cb26-34"><a href="#cb26-34" tabindex="-1"></a>}</span>
+<span id="cb26-35"><a href="#cb26-35" tabindex="-1"></a></span>
+<span id="cb26-36"><a href="#cb26-36" tabindex="-1"></a><span class="co"># Calculate the average confusion matrix</span></span>
+<span id="cb26-37"><a href="#cb26-37" tabindex="-1"></a>avg_conf_matrix <span class="ot">&lt;-</span> conf_mat_totals <span class="sc">/</span> <span class="dv">1000</span></span>
+<span id="cb26-38"><a href="#cb26-38" tabindex="-1"></a><span class="fu">print</span>(avg_conf_matrix)</span></code></pre></div>
 <pre><code>##          Predicted_1 Predicted_0
-## Actual_1      97.456      29.009
-## Actual_0      28.354     173.010</code></pre>
+## Actual_1      96.271      28.221
+## Actual_0      29.513     173.437</code></pre>
 <p>This doesnt have a CI but its a average</p>
-<div class="sourceCode" id="cb31"><pre class="sourceCode r"><code class="sourceCode r"><span id="cb31-1"><a href="#cb31-1" tabindex="-1"></a><span class="co"># Determine common FPR thresholds for interpolation (simplified approach)</span></span>
-<span id="cb31-2"><a href="#cb31-2" tabindex="-1"></a>common_fpr_thresholds <span class="ot">&lt;-</span> <span class="fu">seq</span>(<span class="dv">0</span>, <span class="dv">1</span>, <span class="at">length.out =</span> <span class="dv">100</span>)</span>
-<span id="cb31-3"><a href="#cb31-3" tabindex="-1"></a></span>
-<span id="cb31-4"><a href="#cb31-4" tabindex="-1"></a><span class="co"># Initialize vectors to hold averaged TPR values for these common thresholds</span></span>
-<span id="cb31-5"><a href="#cb31-5" tabindex="-1"></a>averaged_tpr <span class="ot">&lt;-</span> <span class="fu">numeric</span>(<span class="fu">length</span>(common_fpr_thresholds))</span>
-<span id="cb31-6"><a href="#cb31-6" tabindex="-1"></a></span>
-<span id="cb31-7"><a href="#cb31-7" tabindex="-1"></a><span class="co"># Interpolate TPR values at common FPR thresholds for each bootstrap iteration and average them</span></span>
-<span id="cb31-8"><a href="#cb31-8" tabindex="-1"></a><span class="cf">for</span> (i <span class="cf">in</span> <span class="fu">seq_along</span>(common_fpr_thresholds)) {</span>
-<span id="cb31-9"><a href="#cb31-9" tabindex="-1"></a>    tpr_values_at_threshold <span class="ot">&lt;-</span> <span class="fu">sapply</span>(<span class="fu">seq_along</span>(all_tpr), <span class="cf">function</span>(j) {</span>
-<span id="cb31-10"><a href="#cb31-10" tabindex="-1"></a>        <span class="fu">approx</span>(all_fpr[[j]], all_tpr[[j]], <span class="at">xout =</span> common_fpr_thresholds[i])<span class="sc">$</span>y</span>
-<span id="cb31-11"><a href="#cb31-11" tabindex="-1"></a>    })</span>
-<span id="cb31-12"><a href="#cb31-12" tabindex="-1"></a>    averaged_tpr[i] <span class="ot">&lt;-</span> <span class="fu">mean</span>(tpr_values_at_threshold, <span class="at">na.rm =</span> <span class="cn">TRUE</span>)</span>
-<span id="cb31-13"><a href="#cb31-13" tabindex="-1"></a>}</span>
-<span id="cb31-14"><a href="#cb31-14" tabindex="-1"></a></span>
-<span id="cb31-15"><a href="#cb31-15" tabindex="-1"></a><span class="co"># Plot the averaged ROC curve</span></span>
-<span id="cb31-16"><a href="#cb31-16" tabindex="-1"></a><span class="fu">plot</span>(common_fpr_thresholds, averaged_tpr, <span class="at">type =</span> <span class="st">&#39;l&#39;</span>, <span class="at">col =</span> <span class="st">&#39;blue&#39;</span>, <span class="at">xlab =</span> <span class="st">&#39;False Positive Rate&#39;</span>, <span class="at">ylab =</span> <span class="st">&#39;True Positive Rate&#39;</span>, <span class="at">main =</span> <span class="st">&#39;Averaged ROC Curve across Bootstrap Samples&#39;</span>)</span>
-<span id="cb31-17"><a href="#cb31-17" tabindex="-1"></a><span class="fu">abline</span>(<span class="at">a =</span> <span class="dv">0</span>, <span class="at">b =</span> <span class="dv">1</span>, <span class="at">lty =</span> <span class="dv">2</span>, <span class="at">col =</span> <span class="st">&#39;red&#39;</span>) <span class="co"># Reference line</span></span></code></pre></div>
-<p><img src="XGB_2_files/figure-html/unnamed-chunk-17-1.png" width="672" /></p>
+<div class="sourceCode" id="cb28"><pre class="sourceCode r"><code class="sourceCode r"><span id="cb28-1"><a href="#cb28-1" tabindex="-1"></a><span class="co"># Determine common FPR thresholds for interpolation (simplified approach)</span></span>
+<span id="cb28-2"><a href="#cb28-2" tabindex="-1"></a>common_fpr_thresholds <span class="ot">&lt;-</span> <span class="fu">seq</span>(<span class="dv">0</span>, <span class="dv">1</span>, <span class="at">length.out =</span> <span class="dv">100</span>)</span>
+<span id="cb28-3"><a href="#cb28-3" tabindex="-1"></a></span>
+<span id="cb28-4"><a href="#cb28-4" tabindex="-1"></a><span class="co"># Initialize vectors to hold averaged TPR values for these common thresholds</span></span>
+<span id="cb28-5"><a href="#cb28-5" tabindex="-1"></a>averaged_tpr <span class="ot">&lt;-</span> <span class="fu">numeric</span>(<span class="fu">length</span>(common_fpr_thresholds))</span>
+<span id="cb28-6"><a href="#cb28-6" tabindex="-1"></a></span>
+<span id="cb28-7"><a href="#cb28-7" tabindex="-1"></a><span class="co"># Interpolate TPR values at common FPR thresholds for each bootstrap iteration and average them</span></span>
+<span id="cb28-8"><a href="#cb28-8" tabindex="-1"></a><span class="cf">for</span> (i <span class="cf">in</span> <span class="fu">seq_along</span>(common_fpr_thresholds)) {</span>
+<span id="cb28-9"><a href="#cb28-9" tabindex="-1"></a>    tpr_values_at_threshold <span class="ot">&lt;-</span> <span class="fu">sapply</span>(<span class="fu">seq_along</span>(all_tpr), <span class="cf">function</span>(j) {</span>
+<span id="cb28-10"><a href="#cb28-10" tabindex="-1"></a>        <span class="fu">approx</span>(all_fpr[[j]], all_tpr[[j]], <span class="at">xout =</span> common_fpr_thresholds[i])<span class="sc">$</span>y</span>
+<span id="cb28-11"><a href="#cb28-11" tabindex="-1"></a>    })</span>
+<span id="cb28-12"><a href="#cb28-12" tabindex="-1"></a>    averaged_tpr[i] <span class="ot">&lt;-</span> <span class="fu">mean</span>(tpr_values_at_threshold, <span class="at">na.rm =</span> <span class="cn">TRUE</span>)</span>
+<span id="cb28-13"><a href="#cb28-13" tabindex="-1"></a>}</span>
+<span id="cb28-14"><a href="#cb28-14" tabindex="-1"></a></span>
+<span id="cb28-15"><a href="#cb28-15" tabindex="-1"></a><span class="co"># Plot the averaged ROC curve</span></span>
+<span id="cb28-16"><a href="#cb28-16" tabindex="-1"></a><span class="fu">plot</span>(common_fpr_thresholds, averaged_tpr, <span class="at">type =</span> <span class="st">&#39;l&#39;</span>, <span class="at">col =</span> <span class="st">&#39;blue&#39;</span>, <span class="at">xlab =</span> <span class="st">&#39;False Positive Rate&#39;</span>, <span class="at">ylab =</span> <span class="st">&#39;True Positive Rate&#39;</span>, <span class="at">main =</span> <span class="st">&#39;Averaged ROC Curve across Bootstrap Samples&#39;</span>)</span>
+<span id="cb28-17"><a href="#cb28-17" tabindex="-1"></a><span class="fu">abline</span>(<span class="at">a =</span> <span class="dv">0</span>, <span class="at">b =</span> <span class="dv">1</span>, <span class="at">lty =</span> <span class="dv">2</span>, <span class="at">col =</span> <span class="st">&#39;red&#39;</span>) <span class="co"># Reference line</span></span></code></pre></div>
+<p><img src="XGB_2_files/figure-html/unnamed-chunk-16-1.png" width="672" /></p>
 </div>
 
 
